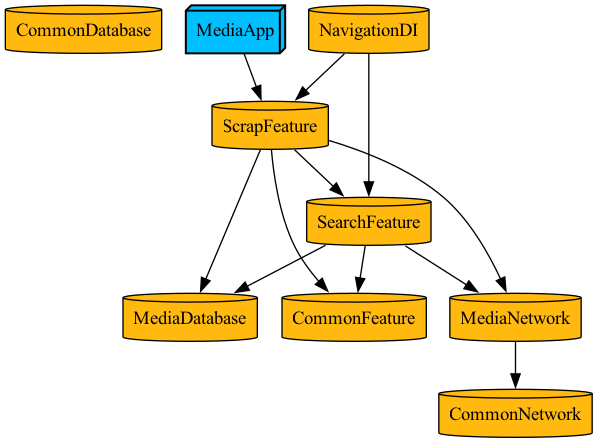
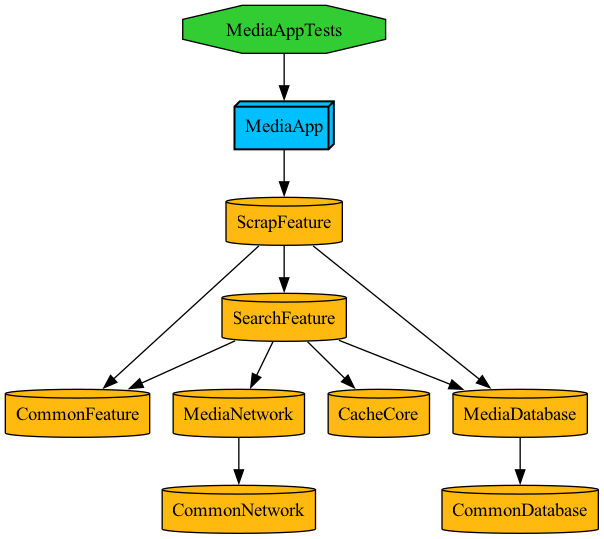
delete: DI 모듈 삭제

diff --git a/Tuist/ProjectDescriptionHelpers/Project+Templates.swift b/Tuist/ProjectDescriptionHelpers/Project+Templates.swift
@@ -112,25 +112,6 @@ extension Project {
             ]
         )
     }
-    
-    public static func makeDIModule(
-        _ target: Module.DI,
-        dependencies: [TargetDependency] = []
-    ) -> Project {
-        let name = target.rawValue
-        return Project(
-            name: "\(name)",
-            settings: .settings(.base),
-            targets: [
-                makeTarget(
-                    name: "\(name)DI",
-                    product: .framework,
-                    bundleId: "\(bundleId).\(name).di",
-                    dependencies: dependencies + uiDependencies
-                ),
-            ]
-        )
-    }
 }
 
 // MARK: - Target

diff --git a/Tuist/ProjectDescriptionHelpers/TargetDependency+Templates.swift b/Tuist/ProjectDescriptionHelpers/TargetDependency+Templates.swift
@@ -37,15 +37,6 @@ public extension TargetDependency {
         )
     }
     
-    static func di(
-        _ target: Module.DI
-    ) -> TargetDependency {
-        return .project(
-            target: "\(target.rawValue)DI",
-            path: .relativeToRoot("Projects/DI/\(target.rawValue)")
-        )
-    }
-    
     static func thirdParty(
         _ target: Module.ThirdParty,
         condition: PlatformCondition? = nil

diff --git a/Tuist/ProjectDescriptionHelpers/Module+Enums.swift b/Tuist/ProjectDescriptionHelpers/Module+Enums.swift
@@ -20,10 +20,6 @@ public enum Module {
         case media = "Media"
     }
     
-    public enum DI: String, CaseIterable {
-        case navigation = "Navigation"
-    }
-    
     public enum ThirdParty: String {
         case composableArchitecture = "ComposableArchitecture"
         case alamofire = "Alamofire"

diff --git a/Projects/Database/Media/Project.swift b/Projects/Database/Media/Project.swift
@@ -2,5 +2,8 @@ import ProjectDescription
 import ProjectDescriptionHelpers
 
 let project = Project.makeDatabaseModule(
-    .media
+    .media,
+    dependencies: [
+        .database(.common)
+    ]
 )
